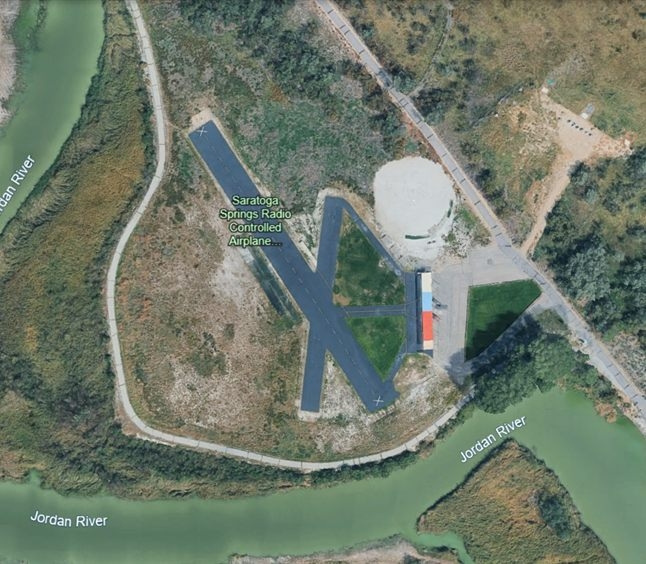
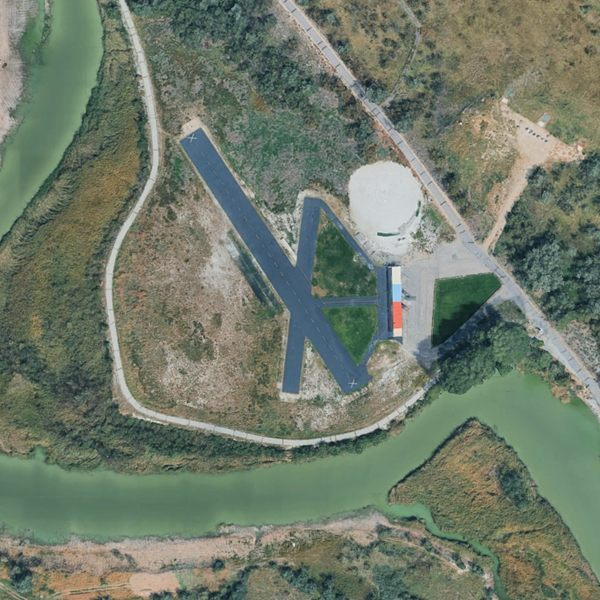
Swap in the clean (no labels) Google Earth photo
field-photo.jpg is now cut from "Clean UVA Field.png", which has no map
labels and is zoomed out enough to fill the whole compass circle.
Re-measured scale and runway crossing point from the new image.

diff --git a/index.html b/index.html
@@ -390,7 +390,7 @@ const FIELD = {
   glare: { maxElev: 30, halfAngle: 50, maxCloud: 80 },
   // Satellite photo behind the compass (Google Earth, north up). cx/cy = pixel where the runways
   // cross; pxPerFt measured from the runway lengths. Set photo: null to go back to the drawn runways.
-  photo: { src: 'field-photo.jpg', w: 646, h: 564, cx: 323.3, cy: 314.3, pxPerFt: 0.6075,
+  photo: { src: 'field-photo.jpg', w: 600, h: 600, cx: 299.8, cy: 299.1, pxPerFt: 0.5493,
            fill: '#8f9a7c', credit: 'Imagery © Google' },
 };
 
